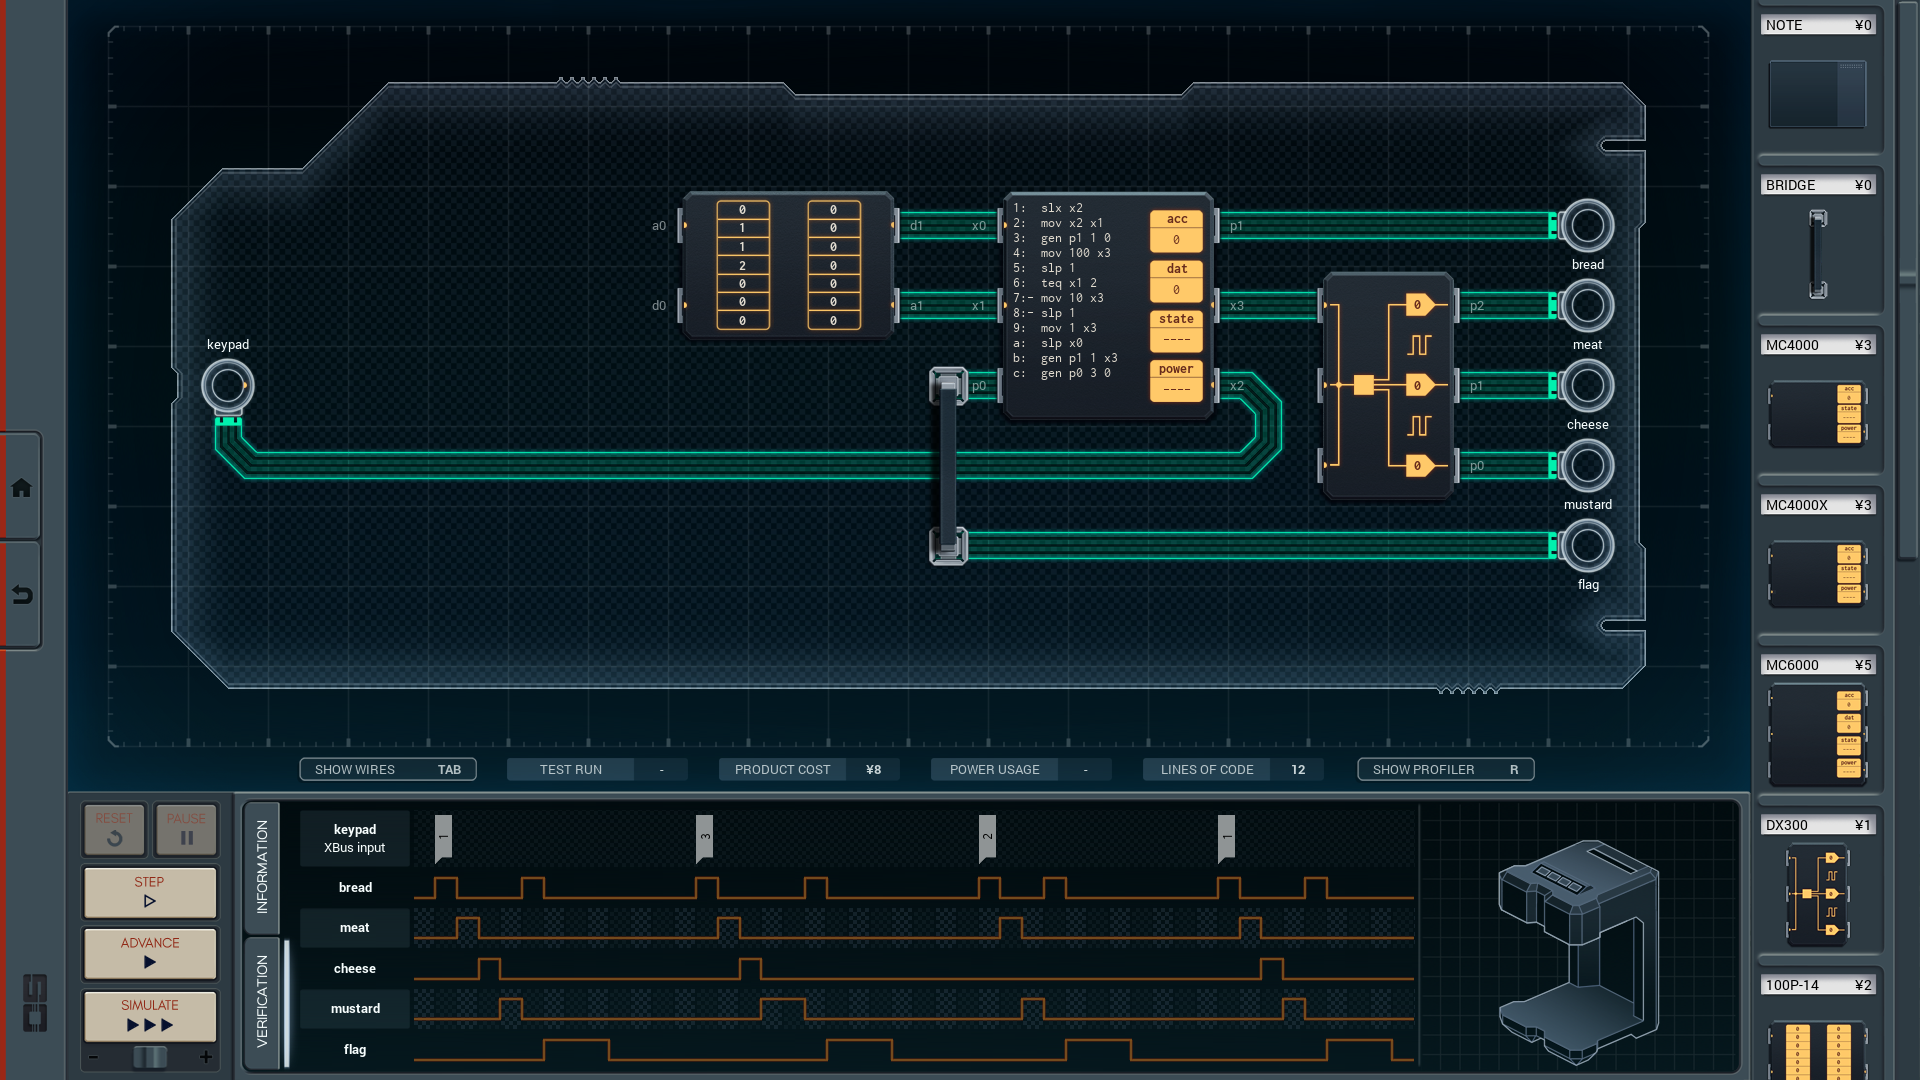
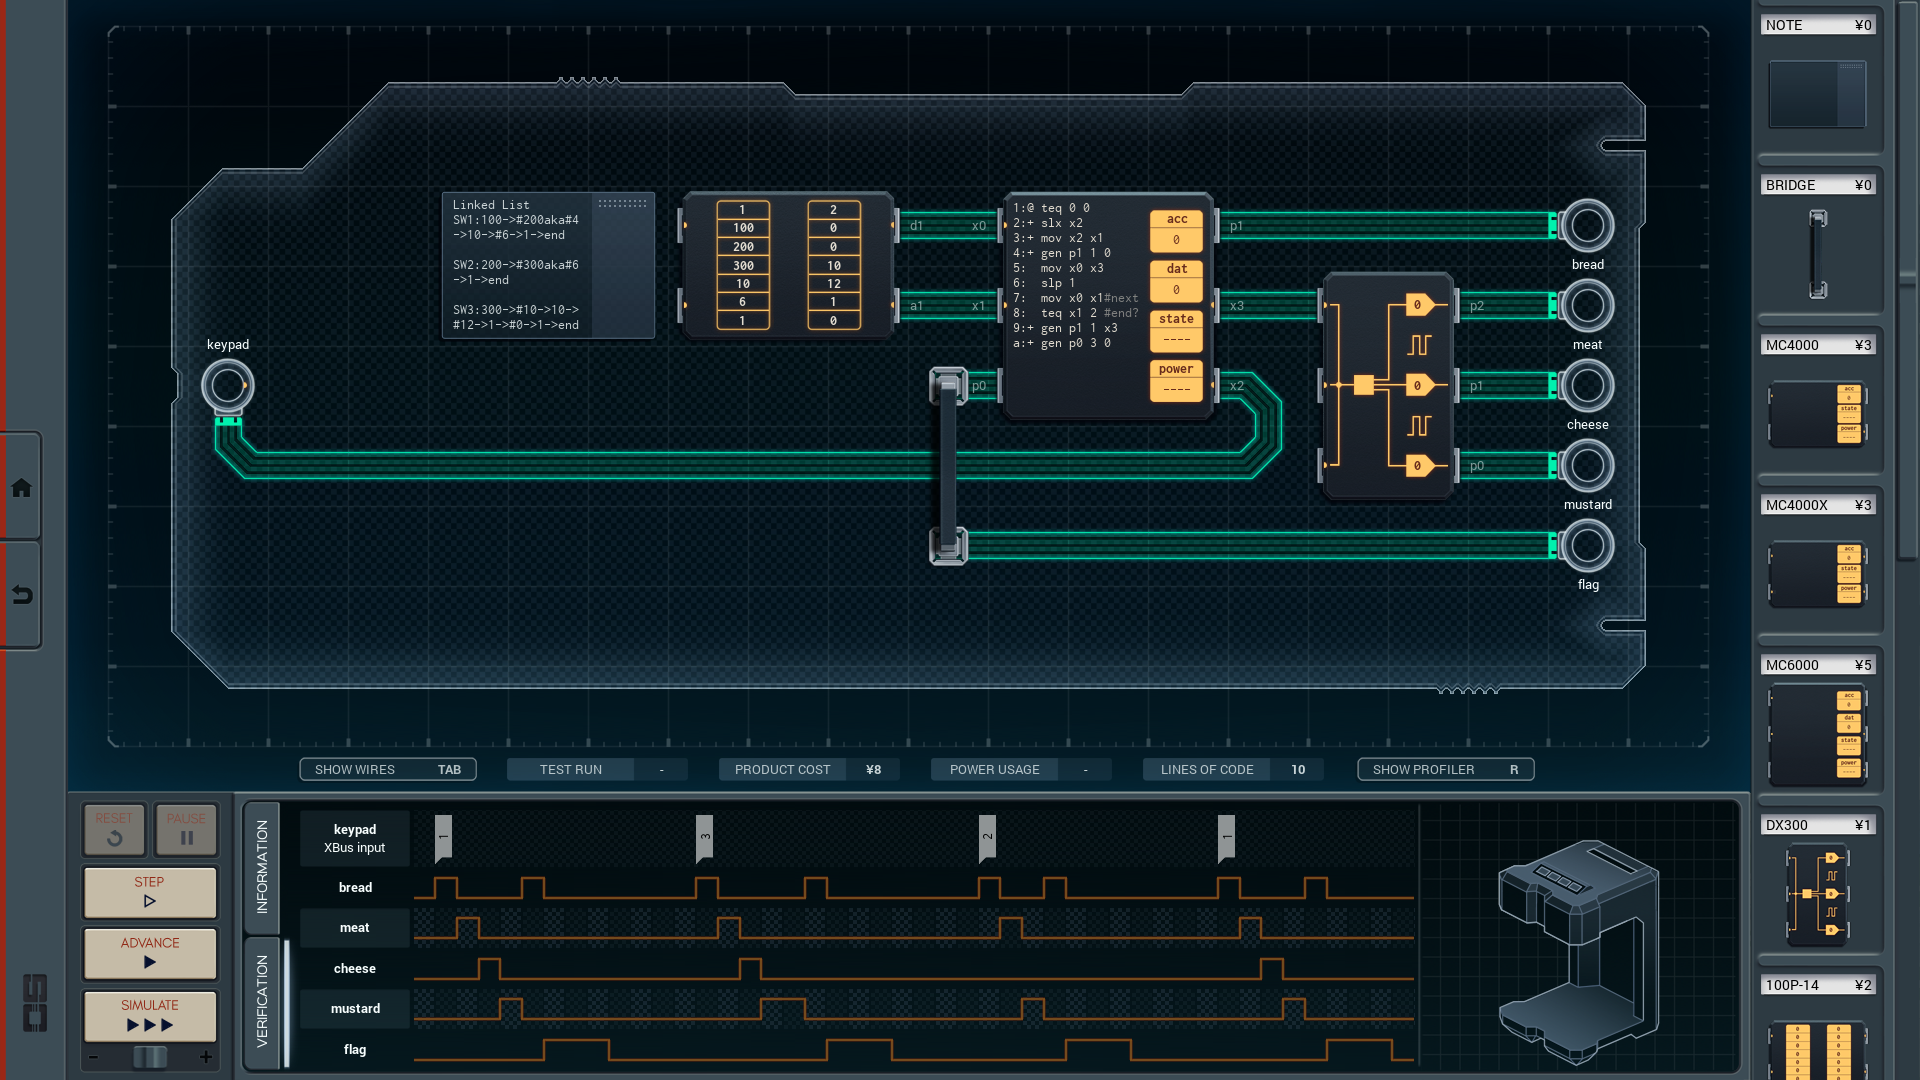
2022/09/22 Optimized the Personal Sandwich Maker solution (min lines) [BEF] 8C / 83P / 12L [AFT] 8C / 107P / 10L

Changed region(s): [[0.2188, 0.1528, 0.3438, 0.3361], [0.5312, 0.1833, 0.5938, 0.3361]]

diff --git a/014-personal-sandwich-maker/README.md b/014-personal-sandwich-maker/README.md
@@ -3,8 +3,8 @@
 
 ![screenshot0](https://github.com/shiawasenahikari/Shenzhen-IO-Solutions/blob/master/014-personal-sandwich-maker/screenshot0.png)
 
-8/83/12 (MIN LINES) SOLUTION
-----------------------------
+8/107/10 (MIN LINES) SOLUTION
+-----------------------------
 
 ![screenshot1](https://github.com/shiawasenahikari/Shenzhen-IO-Solutions/blob/master/014-personal-sandwich-maker/screenshot1.png)
 
